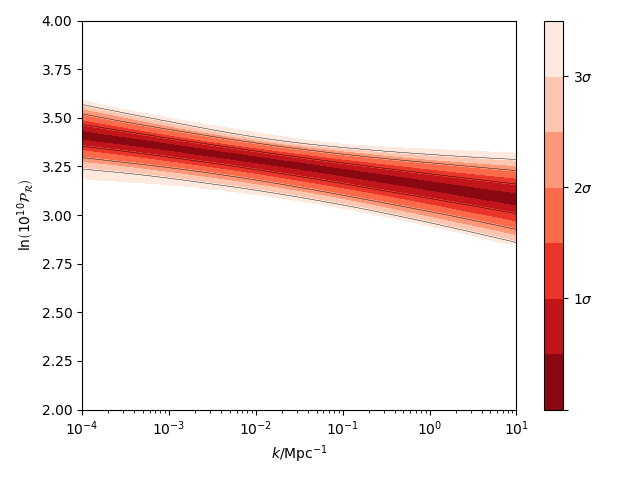
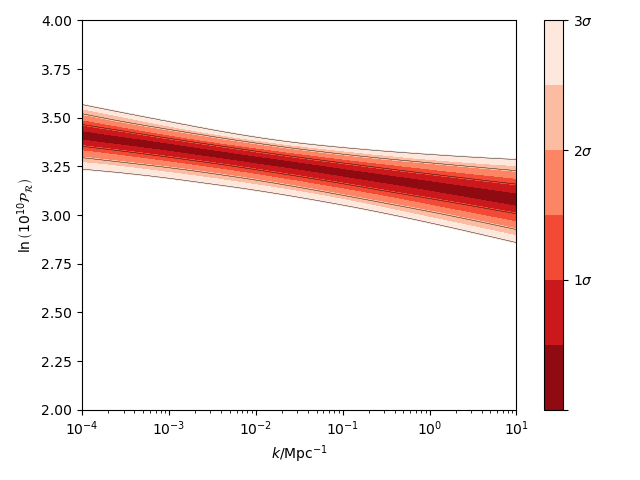
Fixed unintuitive fineness behaviour (#15)
Fixed the unintuitive fineness behaviour (issue #13) by removing the last contour level, such that contour levels for e.g. fineness=0.5 and contours [1,2] are now [0.5,1,1.5,2,2] instead of [0.5,1,1.5,2,2,2.5].

diff --git a/fgivenx/plot.py b/fgivenx/plot.py
@@ -38,11 +38,11 @@ def plot(x, y, z, ax=None, **kwargs):
         Thickness of contour lines.  (Default: 0.3)
 
     contour_color_levels: List[float], optional
-        Contour color levels.
-        (Default: `numpy.arange(0, contour_line_levels[-1] + 1, fineness)`)
+        Contour color levels. (Default:
+        `numpy.arange(0, contour_line_levels[-1] + fineness / 2, fineness)`)
 
     fineness: float, optional
-        Spacing of contour color levels.  (Default: 0.1)
+        Spacing of contour color levels.  (Default: 0.5)
 
     lines: bool, optional
         (Default: True)
@@ -69,7 +69,8 @@ def plot(x, y, z, ax=None, **kwargs):
     contour_line_levels = kwargs.pop('contour_line_levels', [1, 2, 3])
 
     fineness = kwargs.pop('fineness', 0.5)
-    default_color_levels = numpy.arange(0, contour_line_levels[-1] + 1,
+    default_color_levels = numpy.arange(0,
+                                        contour_line_levels[-1] + fineness / 2,
                                         fineness)
     contour_color_levels = kwargs.pop('contour_color_levels',
                                       default_color_levels)

diff --git a/fgivenx/test/test_plot.py b/fgivenx/test/test_plot.py
@@ -31,6 +31,14 @@ def test_plot_transparent():
     cbar = plot(x, y, z, ax, alpha=0.7)
     assert type(cbar) is matplotlib.contour.QuadContourSet
 
+def test_plot_fineness():
+    x, y, z = gen_plot_data()
+
+    fig, ax = plt.subplots()
+    cbar = plot(x, y, z, ax, fineness=0.1, contour_line_levels=[1,2,3,4])
+    assert type(cbar) is matplotlib.contour.QuadContourSet
+    assert len(cbar.levels) == 41
+
 
 def test_plot_wrong_argument():
     x, y, z = gen_plot_data()

diff --git a/README.rst b/README.rst
@@ -3,7 +3,7 @@ fgivenx: Functional Posterior Plotter
 =====================================
 :fgivenx:  Functional Posterior Plotter 
 :Author: Will Handley
-:Version: 2.3.0
+:Version: 2.4.0
 :Homepage: https://github.com/williamjameshandley/fgivenx
 :Documentation: http://fgivenx.readthedocs.io/
 
